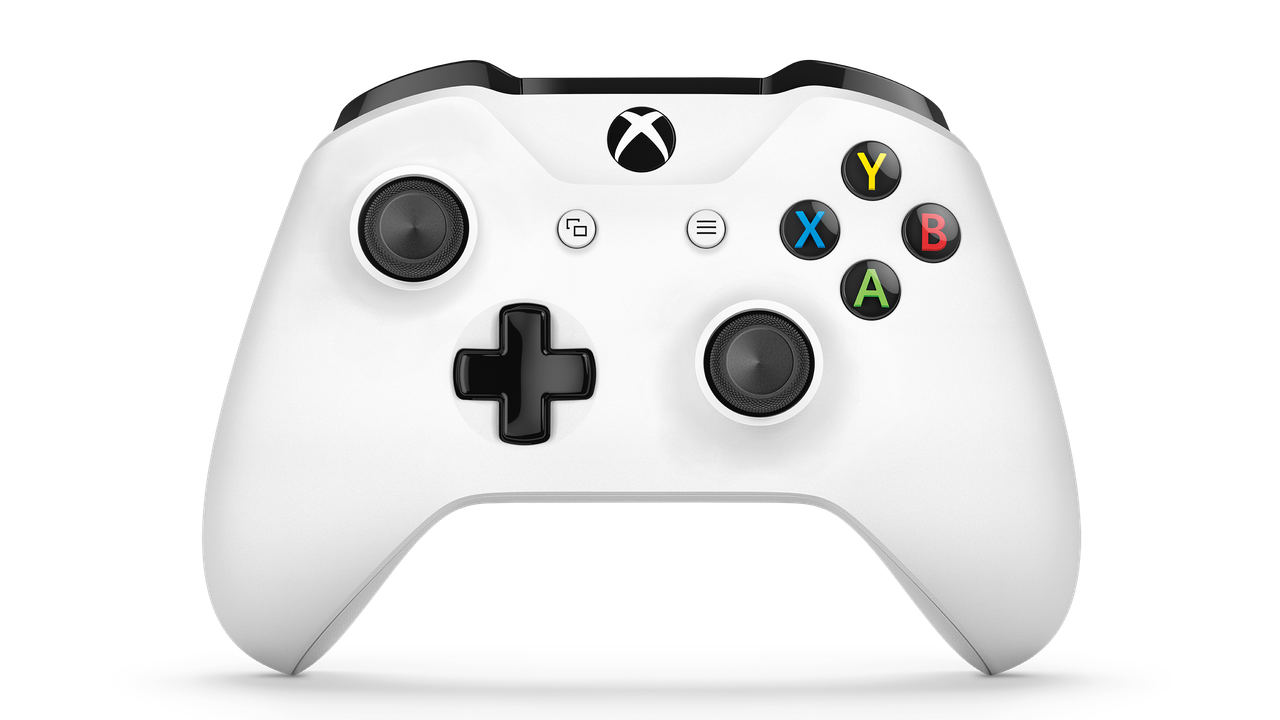
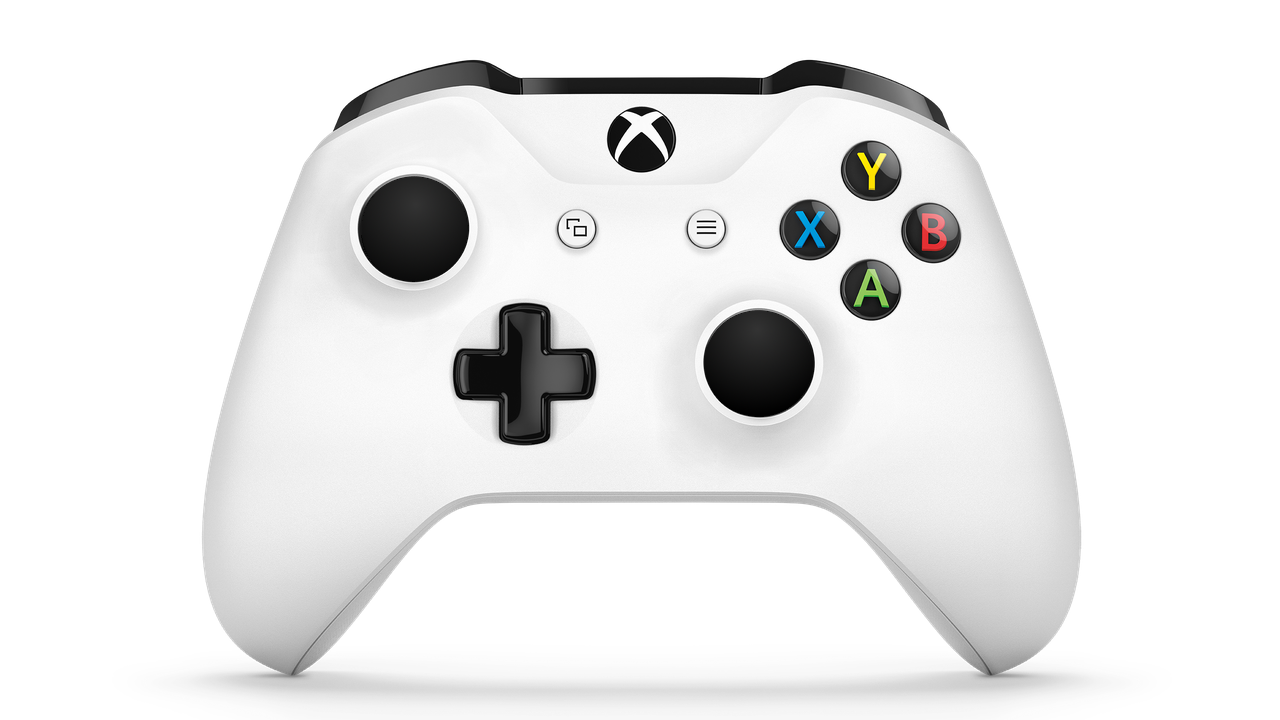
Adds assets for visual feedback of controller usage

Changed region(s): [[0.5312, 0.4278, 0.6562, 0.5806], [0.2812, 0.2444, 0.375, 0.3972]]

diff --git a/js/app.js b/js/app.js
@@ -1,11 +1,51 @@
-const gamepad = new Gamepad();
+/* global $, Gamepad */
 
-gamepad.on('press', 'button_1', e => {
-    console.log(`${e.button} was pressed!`);
-    $('#img-controller').attr('src', `${$('#helper-assets-path').html()}/xbox-one-s-wireless-controller-a.png`)
-});
+const gamepad = new Gamepad()
 
-gamepad.on('release', 'button_1', e => {
-    console.log(`${e.button} was pressed!`);
-    $('#img-controller').attr('src', `${$('#helper-assets-path').html()}/xbox-one-s-wireless-controller.png`)
-});
+const gamepadButtons = [
+  'button_1', 'button_2', 'button_3', 'button_4',
+  'shoulder_top_left', 'shoulder_top_right',
+  'select', 'start', 'vendor',
+  'd_pad_up', 'd_pad_down', 'd_pad_left', 'd_pad_right'
+]
+
+for (const button of gamepadButtons) {
+  gamepad.on('press', button, e => {
+    $('#img-controller-overlays').append(`<img id="${button}" src="${$('#helper-assets-path').html()}/xbox-one-s-wireless-controller-${button}.png" />`)
+  })
+
+  gamepad.on('release', button, e => {
+    $('img').remove(`#${button}`)
+  })
+}
+
+const gamepadStickButtons = [ 'stick_button_left', 'stick_button_right' ]
+
+for (const button of gamepadStickButtons) {
+  gamepad.on('press', button, e => {
+    $('img').remove(`#stick_axis_${button.split('_').pop()}`)
+    $('#img-controller-overlays').append(`<img id="${button}" src="${$('#helper-assets-path').html()}/xbox-one-s-wireless-controller-${button}.png" />`)
+  })
+
+  gamepad.on('release', button, e => {
+    $('img').remove(`#${button}`)
+    $('#img-controller-overlays').append(`<img id="stick_axis_${button.split('_').pop()}" src="${$('#helper-assets-path').html()}/xbox-one-s-wireless-controller-stick_axis_${button.split('_').pop()}.png" />`)
+  })
+}
+
+gamepad.on('connect', e => {
+  console.log(`Controller ${e.index} connected!`)
+  console.log(navigator.getGamepads()[e.index].id.toLowerCase().indexOf('xbox') !== -1) // it is an xbox controller
+})
+
+gamepad.on('disconnect', e => {
+  console.log(`Controller ${e.index} disconnected!`)
+})
+
+gamepad.on('hold', 'stick_button_left', e => {
+  console.log(`stick_button_left has a value of ${e.value}!`)
+})
+
+gamepad.on('hold', 'stick_axis_left', e => {
+  console.log(`stick_axis_left has a value of ${e.value}!`)
+})

diff --git a/assets/custom.css b/assets/custom.css
@@ -1,0 +1,7 @@
+#img-controller-overlays {
+    position: relative;
+}
+
+#img-controller-overlays > img {
+    position: absolute;
+}

diff --git a/index.md b/index.md
@@ -5,7 +5,13 @@
 layout: home
 ---
 
+<link rel="stylesheet" type="text/css" href="{{ '/assets/custom.css' | absolute_url }}">
+
 <span id="helper-assets-path" hidden>{{ '/assets' | absolute_url }}</span>
+<div id="img-controller-overlays">
+	<img id="stick_axis_left" src="{{ '/assets/xbox-one-s-wireless-controller-stick_axis_left.png' | absolute_url }}">
+	<img id="stick_axis_right" src="{{ '/assets/xbox-one-s-wireless-controller-stick_axis_right.png' | absolute_url }}">
+</div>
 <img id="img-controller" src="{{ '/assets/xbox-one-s-wireless-controller.png' | absolute_url }}">
 
 <script
